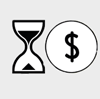
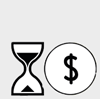
lagt till future income-symbol

Changed region(s): [[0.09, 0.1818, 0.99, 0.9697]]

diff --git a/src/components/PlayerBoard.vue b/src/components/PlayerBoard.vue
@@ -7,10 +7,11 @@ copy paste från GameBoard.vue, sen försökt ändra och anpassa   -->
 
     <div class = "playerHeader">
       <h1>PLAYER INFO</h1>
-      <img class= "playerSymbol" src='/images/coin100px.png' alt=""> X {{player.money}}
+      <p><img class= "playerSymbol" src='/images/coin100px.png' alt="coin symbol"> X {{player.money}}</p>
+      <p><img class= "playerSymbol" src='/images/future_income100px.png' alt="income symbol"> X {{player.income}}</p>
       <p>Total bottles: {{player.totalBottles}}</p>
       <p>Bottles left: {{player.bottlesLeft}}</p>
-      <p>Future income: {{player.income}}</p>
+
 
       <br>
       <button @click="player.money += 1">
